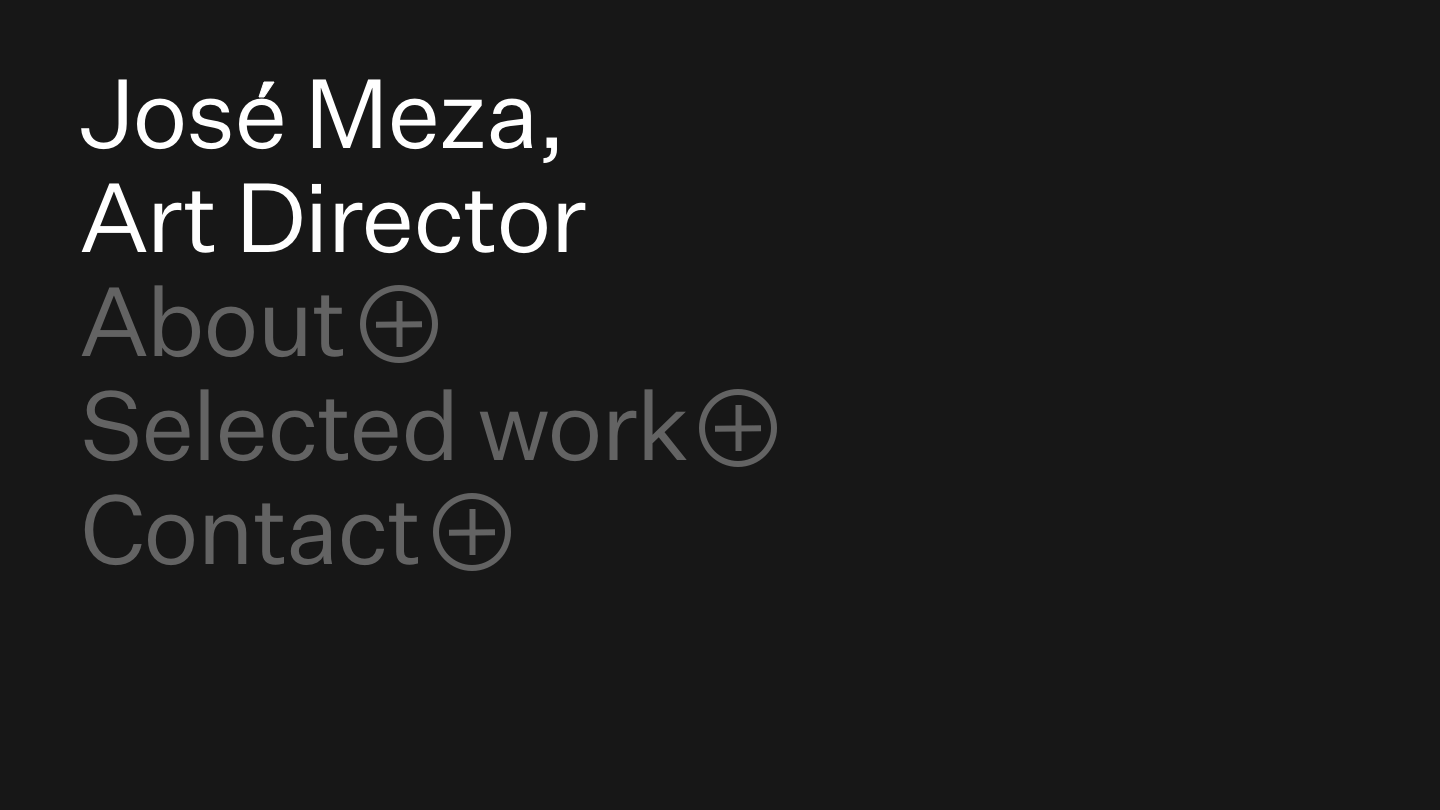
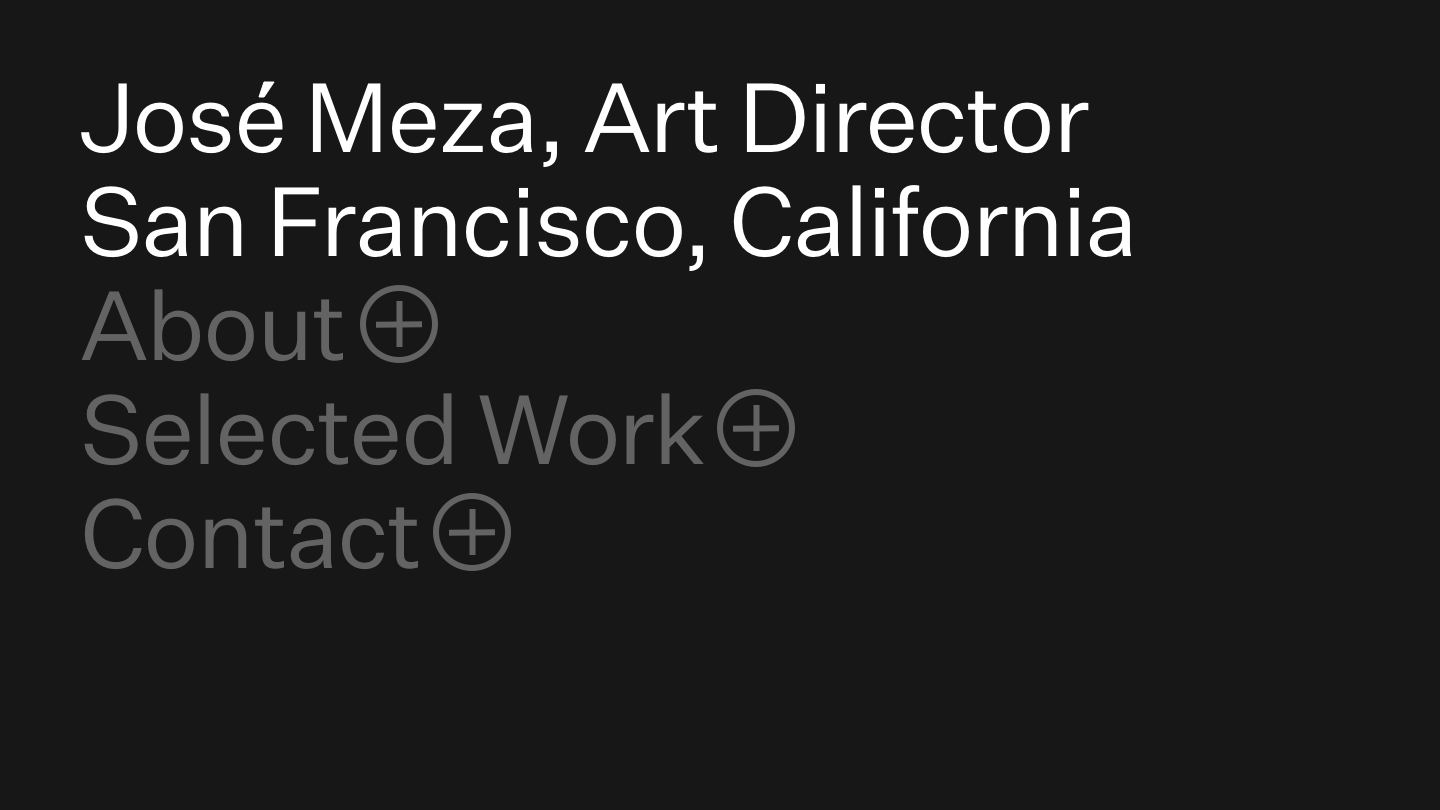
Local DB
Local DB replaces Google Sheets API

diff --git a/assets/main.css b/assets/main.css
@@ -1,1 +1,1 @@
-a,abbr,acronym,address,applet,article,aside,audio,b,big,blockquote,body,canvas,caption,center,cite,code,dd,del,details,dfn,div,dl,dt,em,embed,fieldset,figcaption,figure,footer,form,h1,h2,h3,h4,h5,h6,header,hgroup,html,i,iframe,img,ins,kbd,label,legend,li,mark,menu,nav,object,ol,output,p,pre,q,ruby,s,samp,section,small,span,strike,strong,sub,summary,sup,table,tbody,td,tfoot,th,thead,time,tr,tt,u,ul,var,video{margin:0;padding:0;border:0;font-size:100%;font:inherit;vertical-align:baseline}article,aside,details,figcaption,figure,footer,header,hgroup,menu,nav,section{display:block}body{line-height:1}ol,ul{list-style:none}blockquote,q{quotes:none}blockquote:after,blockquote:before,q:after,q:before{content:'';content:none}table{border-collapse:collapse;border-spacing:0}@font-face{font-family:untitled-sans;src:url(fonts/untitled-sans/untitled-sans-web-regular.woff2) format("woff2"),url(fonts/untitled-sans/untitled-sans-web-regular.woff) format("woff");font-weight:400;font-style:normal}body,html{overflow:auto;cursor:none}body{font:6.75vw/1.1em untitled-sans,helvetica,sans-serif;-webkit-font-smoothing:antialiased;overflow-x:hidden;background:#000;color:#fff;letter-spacing:-2px}html.unloaded{overflow:hidden}a{text-decoration:none;color:inherit;cursor:none}.clearfix{clear:both;display:block}.hideOnDesktop{display:none}::-moz-selection{background:#adadad}::selection{background:#adadad}.wrapper{margin-left:60px;margin-right:60px;margin-top:40px;padding-bottom:60px}body .fadeOnLoad{opacity:0;transition:opacity 0s}body.loaded .fadeOnLoad{opacity:1;transition:opacity 1s}#projects{margin-top:80px;margin-bottom:80px}.projectTitle{display:inline-block;height:100%;color:rgba(255,255,255,.3);transition:color .4s}.projectTitle:hover{color:#fff}span.imageCount{display:inline-block;opacity:0;pointer-events:none;transition:opacity .4s;margin-left:20px;font-size:50%;line-height:1em;letter-spacing:0}.projectTitle:hover span.imageCount{opacity:1;pointer-events:default}.projectPreview{visibility:visible;position:fixed;top:0;left:0;pointer-events:none;width:100vw;height:100vw;z-index:-1;opacity:0;transition:opacity .4s}.project.opaque .projectPreview{opacity:1}img.image{position:fixed;display:none;opacity:0;transition:opacity .4s;width:100%;height:auto;top:50%;left:0;transform:translateY(-50%)}img.image.showing{display:block;opacity:1}.expandablePanelTrigger{color:rgba(255,255,255,.3);transition:color .4s;display:inline-block}.expandablePanelButton{display:inline-block;height:5.25vw;width:5.25vw;opacity:.3;vertical-align:middle;margin-top:-1.4vw;margin-left:-.5vw;position:relative;transition:transform .4s,opacity .4s}.expandablePanelContentContainer{height:0;overflow:hidden;transition:height .4s}.expandablePanelContent{display:block;padding-top:40px;padding-bottom:60px;opacity:0;transition:opacity .4s}.smallerText{font:3vw/1.3em untitled-sans,helvetica,sans-serif;letter-spacing:-1px}.expandablePanelContent a{border-bottom:1px solid;padding-bottom:0}.expandablePanel.open .expandablePanelTrigger{color:#fff}.expandablePanel.open .expandablePanelButton{transform:rotate(45deg);opacity:1}.expandablePanel.open .expandablePanelContent{opacity:1}.expandablePanel.open .expandablePanelButtonLines span{background-color:#fff}.siteMeta{transition:color .4s}body.openPanel .siteMeta{color:rgba(255,255,255,.3)}#soundController{position:fixed;color:#fff;bottom:20px;right:20px;transition:color .4s,opacity 0,border .4s,margin-right .4s;opacity:0;padding-top:7px;padding-bottom:11px;padding-right:25px;padding-left:25px;border:3px solid #fff;border-radius:100px;text-align:right}body.loaded #soundController{opacity:1;transition:color .4s,opacity 1s,border .4s}#soundController.soundOff{color:rgba(255,255,255,.3);border:3px solid rgba(255,255,255,.3)}#aboutSectionContent{margin-right:60px}#cursor{height:47px;width:30px;position:fixed;top:-200px;left:-200px;pointer-events:none;margin-left:-10px;margin-top:-10px;transition:transform .2s;-webkit-filter:drop-shadow(0 0 5px rgba(0, 0, 0, .5));filter:drop-shadow(0 0 5px rgba(0, 0, 0, .5));transform:rotate(-22.5deg)}#cursor.south{transform:rotate(-180deg)}#cursor.northeast{transform:rotate(45deg)}#cursor.east{transform:rotate(90deg)}#cursor.west{transform:rotate(-90deg)}@media (max-width:1100px),(max-device-width:1100px){.wrapper{margin-left:40px;margin-right:40px;margin-top:30px;padding-bottom:30px}.expandablePanelContent{padding-top:30px;padding-bottom:40px}.smallerText{font:3.5vw/1.3em untitled-sans,helvetica,sans-serif}span.imageCount{margin-left:15px}}@media (max-width:950px),(max-device-width:950px){body,html{font:7.5vw/1.2em untitled-sans,helvetica,sans-serif}.expandablePanelContent{padding-top:20px}.smallerText{font:4.5vw/1.3em untitled-sans,helvetica,sans-serif}.expandablePanelButton{width:5.75vw;height:5.75vw;margin-top:-1.5vw}span.imageCount{margin-left:10px}#soundController{border:2px solid #fff}#soundController.soundOff{border:2px solid rgba(255,255,255,.3)}}@media (max-width:600px),(max-device-width:600px){.wrapper{margin-left:25px;margin-top:20px;margin-right:25px}body,html{font:12vw/1.2em untitled-sans,helvetica,sans-serif}.expandablePanelButton{margin-top:-2.2vw;width:9.25vw;height:9.25vw}#aboutSectionContent{margin-right:0}.smallerText{font:5.75vw/1.3em untitled-sans,helvetica,sans-serif}#soundController{padding-left:18px;padding-right:18px;padding-top:5px;padding-bottom:8px}}@media (hover:none){#cursor{display:none!important}}
+a,abbr,acronym,address,applet,article,aside,audio,b,big,blockquote,body,canvas,caption,center,cite,code,dd,del,details,dfn,div,dl,dt,em,embed,fieldset,figcaption,figure,footer,form,h1,h2,h3,h4,h5,h6,header,hgroup,html,i,iframe,img,ins,kbd,label,legend,li,mark,menu,nav,object,ol,output,p,pre,q,ruby,s,samp,section,small,span,strike,strong,sub,summary,sup,table,tbody,td,tfoot,th,thead,time,tr,tt,u,ul,var,video{margin:0;padding:0;border:0;font-size:100%;font:inherit;vertical-align:baseline}article,aside,details,figcaption,figure,footer,header,hgroup,menu,nav,section{display:block}body{line-height:1}ol,ul{list-style:none}blockquote,q{quotes:none}blockquote:after,blockquote:before,q:after,q:before{content:'';content:none}table{border-collapse:collapse;border-spacing:0}@font-face{font-family:untitled-sans;src:url(fonts/untitled-sans/untitled-sans-web-regular.woff2) format("woff2"),url(fonts/untitled-sans/untitled-sans-web-regular.woff) format("woff");font-weight:400;font-style:normal}body,html{overflow:auto;cursor:none}body{font:6.75vw/1.1em untitled-sans,helvetica,sans-serif;-webkit-font-smoothing:antialiased;overflow-x:hidden;background:#000;color:#fff;letter-spacing:-2px}html.unloaded{overflow:hidden}a{text-decoration:none;color:inherit;cursor:none}.clearfix{clear:both;display:block}.hideOnDesktop{display:none}::-moz-selection{background:#adadad}::selection{background:#adadad}.wrapper{margin-left:60px;margin-right:60px;margin-top:40px;padding-bottom:60px}body .fadeOnLoad{opacity:0;transition:opacity 0s}body.loaded .fadeOnLoad{opacity:1;transition:opacity 1s}#projects{margin-top:80px;margin-bottom:80px}.projectTitle{display:inline-block;height:100%;color:rgba(255,255,255,.3);transition:color .4s}.projectTitle:hover{color:#fff}span.imageCount{display:inline-block;opacity:0;pointer-events:none;transition:opacity .4s;margin-left:20px;font-size:50%;line-height:1em;letter-spacing:0}.projectTitle:hover span.imageCount{opacity:1;pointer-events:default}.projectPreview{visibility:visible;position:fixed;top:0;left:0;pointer-events:none;width:100vw;height:100vw;z-index:-1;opacity:0;transition:opacity .4s}.project.opaque .projectPreview{opacity:1}img.image{position:fixed;display:none;opacity:0;transition:opacity .4s;width:100%;height:auto;top:50%;left:0;transform:translateY(-50%)}img.image.showing{display:block;opacity:1}.expandablePanelTrigger{color:rgba(255,255,255,.3);transition:color .4s;display:inline-block}.expandablePanelButton{display:inline-block;height:5.25vw;width:5.25vw;opacity:.3;vertical-align:middle;margin-top:-1.4vw;margin-left:-.5vw;position:relative;transition:transform .4s,opacity .4s}.expandablePanelContentContainer{height:0;overflow:hidden;transition:height .4s}.expandablePanelContent{display:block;padding-top:40px;padding-bottom:60px;opacity:0;transition:opacity .4s}.smallerText{font:3vw/1.2em untitled-sans,helvetica,sans-serif;letter-spacing:-1px}.expandablePanelContent a{border-bottom:1px solid;padding-bottom:0}.expandablePanel.open .expandablePanelTrigger{color:#fff}.expandablePanel.open .expandablePanelButton{transform:rotate(45deg);opacity:1}.expandablePanel.open .expandablePanelContent{opacity:1}.expandablePanel.open .expandablePanelButtonLines span{background-color:#fff}.siteMeta{transition:color .4s}body.openPanel .siteMeta{color:rgba(255,255,255,.3)}#soundController{position:fixed;color:#fff;bottom:20px;right:20px;transition:color .4s,opacity 0,border .4s,margin-right .4s;opacity:0;padding-top:7px;padding-bottom:11px;padding-right:25px;padding-left:25px;border:3px solid #fff;border-radius:100px;text-align:right}body.loaded #soundController{opacity:1;transition:color .4s,opacity 1s,border .4s}#soundController.soundOff{color:rgba(255,255,255,.3);border:3px solid rgba(255,255,255,.3)}#aboutSectionContent{margin-right:60px}#cursor{height:47px;width:30px;position:fixed;top:-200px;left:-200px;pointer-events:none;margin-left:-10px;margin-top:-10px;transition:transform .2s;-webkit-filter:drop-shadow(0 0 5px rgba(0, 0, 0, .5));filter:drop-shadow(0 0 5px rgba(0, 0, 0, .5));transform:rotate(-22.5deg)}#cursor.south{transform:rotate(-180deg)}#cursor.northeast{transform:rotate(45deg)}#cursor.east{transform:rotate(90deg)}#cursor.west{transform:rotate(-90deg)}@media (max-width:1100px),(max-device-width:1100px){.wrapper{margin-left:40px;margin-right:40px;margin-top:30px;padding-bottom:30px}.expandablePanelContent{padding-top:30px;padding-bottom:40px}.smallerText{font:3.5vw/1.25em untitled-sans,helvetica,sans-serif}span.imageCount{margin-left:15px}}@media (max-width:950px),(max-device-width:950px){body,html{font:7.5vw/1.2em untitled-sans,helvetica,sans-serif}.expandablePanelContent{padding-top:20px}.smallerText{font:4.5vw/1.25em untitled-sans,helvetica,sans-serif}.expandablePanelButton{width:5.75vw;height:5.75vw;margin-top:-1.5vw}span.imageCount{margin-left:10px}#soundController{border:2px solid #fff}#soundController.soundOff{color:rgba(255,255,255,.3);border:2px solid rgba(255,255,255,.3)}}@media (max-width:600px),(max-device-width:600px){.wrapper{margin-left:25px;margin-top:20px;margin-right:25px}body,html{font:12vw/1.2em untitled-sans,helvetica,sans-serif}.expandablePanelButton{margin-top:-2.2vw;width:9.25vw;height:9.25vw}.expandablePanelButtonLines{width:5vw;height:5vw}.expandablePanelButtonLines span{height:.7vw;width:5vw}.expandablePanelButtonLines span:last-child{width:.7vw;height:5vw}#aboutSectionContent{margin-right:0}.smallerText{font:5.75vw/1.3em untitled-sans,helvetica,sans-serif}#soundController{padding-left:18px;padding-right:18px;padding-top:5px;padding-bottom:8px}}@media (hover:none){#cursor{display:none!important}}

diff --git a/assets/app.js b/assets/app.js
@@ -1,5 +1,5 @@
-var cursorLeft,cursorTop,projectPreviews,body=document.body,html=document.documentElement,wrapper=document.getElementsByClassName("wrapper")[0],windowWidth=Math.max(document.documentElement.clientWidth,window.innerWidth||0),windowHeight=Math.max(document.documentElement.clientHeight,window.innerHeight||0),projects=document.getElementById("projects"),projectList=document.getElementById("projectList"),soundController=document.getElementById("soundController"),cursor=document.getElementById("cursor");
+var projectDB,cursorLeft,cursorTop,projectPreviews,body=document.body,html=document.documentElement,wrapper=document.getElementsByClassName("wrapper")[0],windowWidth=Math.max(document.documentElement.clientWidth,window.innerWidth||0),windowHeight=Math.max(document.documentElement.clientHeight,window.innerHeight||0),projects=document.getElementById("projects"),projectList=document.getElementById("projectList"),soundController=document.getElementById("soundController"),cursor=document.getElementById("cursor");
 function preloadSounds(a){var o=document.createElement("audio");o.src="assets/sounds/"+a,o.load(),o.addEventListener("loadeddata",function(){})}for(var soundFileArray=["beer.mp3","dialing.mp3","low-power.mp3","mail.mp3","shutter.mp3","sms.mp3","sound-off.mp3","sound-on.mp3"],a=0;a<soundFileArray.length;a++)preloadSounds(soundFileArray[a]);
-console.log("Design by José Meza"),console.log("Development by Gabe Ferreira");
-var sheetUrl="https://spreadsheets.google.com/feeds/list/1JS0Ey7vEA1xPRZKu5uhAlHu1-EXRCJDa9hQa3xyEumc/1/public/values?alt=json";fetch(sheetUrl).then(function(e){return e.json()}).then(function(e){googleSheet=e.feed.entry;for(var t=0;t<googleSheet.length;t+=1){var s=document.createElement("div");s.className="project "+googleSheet[t].gsx$customclass.$t,s.id=googleSheet[t].gsx$customid.$t;var a=document.createElement("span");if(a.className="projectTitle",a.innerHTML=googleSheet[t].gsx$title.$t,s.appendChild(a),"Image"===googleSheet[t].gsx$mediatype.$t){var o=googleSheet[t].gsx$images.$t.split(","),n=document.createElement("div");if(n.className="imageContainer projectPreview",1<o.length){var i=document.createElement("span");i.className="imageCount",i.innerHTML="1 / "+o.length,a.appendChild(i),a.classList.add("multipleImages"),a.addEventListener("mouseenter",function(){cursor.classList.add("east")}),a.addEventListener("mouseleave",function(){cursor.classList.remove("east")}),a.addEventListener("click",function(){if(body.classList.contains("readyForClick")){var s,a=this.nextElementSibling.childNodes;a.forEach(function(e,t){e.classList.contains("showing")&&((s=t+1)>=a.length&&(s=0),e.classList.remove("showing"))}),a[s].classList.add("showing"),this.childNodes[1].innerHTML=s+1+" / "+a.length}})}for(var l=0;l<o.length;l++){var c=document.createElement("img");c.classList.add("image"),c.src="assets/img/projects/"+o[l],0===l&&c.classList.add("showing"),n.appendChild(c)}s.appendChild(n)}else if("Video"===googleSheet[t].gsx$mediatype.$t){var d=document.createElement("div");d.className="videoContainer projectPreview";var r=document.createElement("video");r.className="projectVideo",r.loop=!0,r.autoplay=!0,r.muted="muted",r.setAttribute("webkit-playsinline",""),r.setAttribute("playsinline","");var m=document.createElement("source");m.src="assets/img/projects/"+googleSheet[t].gsx$video.$t+".mp4",m.type="video/mp4";var g=document.createElement("source");g.src="assets/img/projects/"+googleSheet[t].gsx$video.$t+".webm",g.type="video/webm",r.appendChild(m),r.appendChild(g),r.load(),d.appendChild(r),s.appendChild(d)}projectList.appendChild(s)}}).then(function(){assignHoverStates(),projectPreviews=document.getElementsByClassName("projectPreview")}).catch(function(e){console.log(e)});
+console.log("Design and development by Gabe Ferreira"),console.log("contact@gabeferreira.com");
+for(var i=0;i<projectDB.length;i+=1){var newProject=document.createElement("div");newProject.className="project "+projectDB[i].customClass,newProject.id=projectDB[i].customID;var projectTitle=document.createElement("span");projectTitle.className="projectTitle",projectTitle.innerHTML=projectDB[i].title,newProject.appendChild(projectTitle);var imageArray=projectDB[i].images,imageContainer=document.createElement("div");if(imageContainer.className="imageContainer projectPreview",1<imageArray.length){var imageCount=document.createElement("span");imageCount.className="imageCount",imageCount.innerHTML="1 of "+imageArray.length,projectTitle.appendChild(imageCount),projectTitle.classList.add("multipleImages"),projectTitle.addEventListener("mouseenter",function(){cursor.classList.add("east")}),projectTitle.addEventListener("mouseleave",function(){cursor.classList.remove("east")}),projectTitle.addEventListener("click",function(){if(body.classList.contains("readyForClick")){var i,a=this.nextElementSibling.childNodes;a.forEach(function(e,t){e.classList.contains("showing")&&((i=t+1)>=a.length&&(i=0),e.classList.remove("showing"))}),a[i].classList.add("showing"),this.childNodes[1].innerHTML=i+1+" of "+a.length}})}for(var a=0;a<imageArray.length;a++){var image=document.createElement("img");image.classList.add("image"),image.src="assets/img/projects/"+projectDB[i].id+"/"+imageArray[a],0===a&&image.classList.add("showing"),imageContainer.appendChild(image)}newProject.appendChild(imageContainer),projectList.appendChild(newProject)}assignHoverStates(),projectPreviews=document.getElementsByClassName("projectPreview");
 function updateCursorPosition(e){scrollTop=void 0!==window.pageYOffset?window.pageYOffset:(document.documentElement||document.body.parentNode||document.body).scrollTop,cursorLeft=e.pageX+"px",cursorTop=e.pageY-scrollTop+"px"}function updateThumbnailPosition(){var e=!0,t=!1,r=void 0;try{for(var o,n=projectPreviews[Symbol.iterator]();!(e=(o=n.next()).done);e=!0){var a=o.value;a.style.top=cursorTop,a.style.left=cursorLeft}}catch(e){t=!0,r=e}finally{try{e||null==n.return||n.return()}finally{if(t)throw r}}}function assignHoverStates(){var e=document.getElementsByClassName("projectTitle"),t=!0,r=!1,o=void 0;try{for(var n,a=e[Symbol.iterator]();!(t=(n=a.next()).done);t=!0){var s=n.value;s.addEventListener("mouseenter",function(e){e.target.parentElement.classList.add("opaque"),setTimeout(function(){body.classList.add("readyForClick")},25)}),s.addEventListener("mouseout",function(e){e.target.parentElement.classList.remove("opaque"),body.classList.remove("readyForClick")})}}catch(e){r=!0,o=e}finally{try{t||null==a.return||a.return()}finally{if(r)throw o}}}setTimeout(function(){body.classList.add("loaded")},500),window.addEventListener("touchstart",function(){body.classList.add("touchDevice")}),window.addEventListener("resize",function(){windowWidth=Math.max(document.documentElement.clientWidth,window.innerWidth||0),windowHeight=Math.max(document.documentElement.clientHeight,window.innerHeight||0);var e=document.getElementsByClassName("expandablePanelContentContainer"),t=!0,r=!1,o=void 0;try{for(var n,a=e[Symbol.iterator]();!(t=(n=a.next()).done);t=!0){var s=n.value;s.classList.contains("openPanel")&&(s.style.height=s.firstElementChild.clientHeight+"px")}}catch(e){r=!0,o=e}finally{try{t||null==a.return||a.return()}finally{if(r)throw o}}}),document.addEventListener("mousemove",function(e){updateCursorPosition(e),cursor.style.left=cursorLeft,cursor.style.top=cursorTop});var expandableButtons=document.getElementsByClassName("expandablePanelTrigger"),_iteratorNormalCompletion4=!0,_didIteratorError4=!1,_iteratorError4=void 0;try{for(var _step4,_loop=function(){var f=_step4.value;f.addEventListener("mouseenter",function(){cursor.classList.add("south")}),f.addEventListener("mouseleave",function(){cursor.classList.remove("south")}),f.addEventListener("click",function(){if(f.parentElement.classList.contains("open")){f.parentElement.classList.remove("open"),body.classList.remove("openPanel"),f.nextElementSibling.style.height="0px",f.nextElementSibling.classList.remove("openPanel");var e=document.createElement("audio");e.src="assets/sounds/"+f.dataset.audioClose+".mp3",soundController.classList.contains("soundOn")&&e.play()}else{var t=document.getElementsByClassName("expandablePanel"),r=!0,o=!1,n=void 0;try{for(var a,s=t[Symbol.iterator]();!(r=(a=s.next()).done);r=!0){a.value.classList.remove("open")}}catch(e){o=!0,n=e}finally{try{r||null==s.return||s.return()}finally{if(o)throw n}}var i=document.getElementsByClassName("expandablePanelContentContainer"),l=!0,d=!1,c=void 0;try{for(var u,m=i[Symbol.iterator]();!(l=(u=m.next()).done);l=!0){var p=u.value;p.style.height="0px",p.classList.remove("openPanel")}}catch(e){d=!0,c=e}finally{try{l||null==m.return||m.return()}finally{if(d)throw c}}f.parentElement.classList.add("open"),body.classList.add("openPanel"),f.nextElementSibling.style.height=f.nextElementSibling.firstElementChild.clientHeight+"px",f.nextElementSibling.classList.add("openPanel");var v=document.createElement("audio");v.src="assets/sounds/"+f.dataset.audioOpen+".mp3",soundController.classList.contains("soundOn")&&v.play()}})},_iterator4=expandableButtons[Symbol.iterator]();!(_iteratorNormalCompletion4=(_step4=_iterator4.next()).done);_iteratorNormalCompletion4=!0)_loop()}catch(e){_didIteratorError4=!0,_iteratorError4=e}finally{try{_iteratorNormalCompletion4||null==_iterator4.return||_iterator4.return()}finally{if(_didIteratorError4)throw _iteratorError4}}var newPageLinks=document.getElementsByClassName("newPageLink"),_iteratorNormalCompletion5=!0,_didIteratorError5=!1,_iteratorError5=void 0;try{for(var _step5,_iterator5=newPageLinks[Symbol.iterator]();!(_iteratorNormalCompletion5=(_step5=_iterator5.next()).done);_iteratorNormalCompletion5=!0){var item=_step5.value;item.addEventListener("mouseenter",function(){cursor.classList.add("northeast")}),item.addEventListener("mouseleave",function(){cursor.classList.remove("northeast")})}}catch(e){_didIteratorError5=!0,_iteratorError5=e}finally{try{_iteratorNormalCompletion5||null==_iterator5.return||_iterator5.return()}finally{if(_didIteratorError5)throw _iteratorError5}}soundController.addEventListener("click",function(){var e;this.classList.contains("soundOn")?(this.classList.remove("soundOn"),this.classList.add("soundOff"),(e=document.createElement("audio")).src="assets/sounds/sound-off.mp3",e.load(),e.play(),cursor.className="east"):(this.classList.remove("soundOff"),this.classList.add("soundOn"),(e=document.createElement("audio")).src="assets/sounds/sound-on.mp3",e.load(),e.play(),cursor.className="west")}),soundController.addEventListener("mouseenter",function(){this.classList.contains("soundOn")?cursor.classList.add("west"):cursor.classList.add("east")}),soundController.addEventListener("mouseleave",function(){cursor.classList.remove("east"),cursor.classList.remove("west")});

diff --git a/index.html b/index.html
@@ -1,6 +1,7 @@
 <!--
-Design by José Meza
-Development by Gabe Ferreira
+Design and development by Gabe Ferreira
+www.gabeferreira.com
+contact@gabeferreira.com
 -->
 <!DOCTYPE html PUBLIC "-//W3C//DTD XHTML 1.0 Transitional//EN" "http://www.w3.org/TR/xhtml1/DTD/xhtml1-transitional.dtd">
 <html xmlns="http://www.w3.org/1999/xhtml">
@@ -13,7 +14,7 @@ Development by Gabe Ferreira
 	<meta name="description" content="José Meza is an art director working in visual and brand design.">
 	<link href="assets/main.css" rel="stylesheet" type="text/css" />
 	<link rel="shortcut icon" href="assets/img/favicon.ico">
-	<link rel="canonical" href="https://josemeza.info" />
+	<link rel="canonical" href="http://josemeza.info" />
 
 	<!--Favicons-->
 	<link rel="apple-touch-icon" sizes="180x180" href="assets/favicon/apple-icon-180x180.png">
@@ -26,17 +27,17 @@ Development by Gabe Ferreira
 	<meta name="theme-color" content="#ffffff">
 
 	<!--Facebook Open Graph-->
-	<meta property="og:url" content="https://josemeza.com" />
+	<meta property="og:url" content="http://josemeza.com" />
 	<meta property="og:type" content="website" />
 	<meta property="og:title" content="José Meza" />
-	<meta property="og:image" content="https://josemeza.info/assets/img/thumbnail.png" />
+	<meta property="og:image" content="http://josemeza.info/assets/img/thumbnail.png" />
 	<meta property="og:description" content="José Meza is an art director working in visual and brand design." />
 
 	<!--Twitter Card-->
 	<meta name="twitter:card" content="summary_large_image" />
 	<meta name="twitter:title" content="José Meza" />
 	<meta name="twitter:description" content="José Meza is an art director working in visual and brand design." />
-	<meta name="twitter:image" content="https://josemeza.info/assets/img/thumbnail.png" />
+	<meta name="twitter:image" content="http://josemeza.info/assets/img/thumbnail.png" />
 
 	<!--Google Analytics-->
 	<script async src="https://www.googletagmanager.com/gtag/js?id=UA-163826468-1"></script>
@@ -55,7 +56,7 @@ Development by Gabe Ferreira
 
 		<header id="mainHeader" class="fadeOnLoad">
 			<div class="siteMeta">
-				<span class="siteTitle">José Meza,</span><br>
+				<span class="siteTitle">José Meza</span><br>
 				<span class="siteLocation">Art&nbsp;Director</span><br>
 			</div><!--siteMeta-->
 		</header><!--header-->
@@ -69,7 +70,7 @@ Development by Gabe Ferreira
 			</div><!--expandablePanelTrigger-->
 			<div class="expandablePanelContentContainer">
 				<div class="expandablePanelContent smallerText" id="aboutSectionContent">
-					José Meza is an art director based in San Francisco currently working on visual and brand design with <a href="https://about.google/" target="_blank" class="newPageLink">Google Brand Studio</a>. Previously, he worked at <a href="https://ideo.com" target="_blank" class="newPageLink">IDEO</a>, helped launch <a href="https://figma.com" target="_blank" class="newPageLink">Figma</a>, and interned at <a href="https://pentagram.com" target="_blank" class="newPageLink">Pentagram</a> and <a href="https://2x4.org" target="_blank" class="newPageLink">2x4</a>. He studied architecture at <a href="https://www.architecture.yale.edu/" target="_blank" class="newPageLink">Yale</a> and <a href="https://soa.princeton.edu/" target="_blank" class="newPageLink">Princeton</a> and makes architectural images and objects and shares them on <a href="https://www.instagram.com/parts_and_supply/" target="_blank" class="newPageLink">Instagram</a>. Thanks for stopping by.
+					José Meza is an art director based in San Francisco currently working on visual and brand design with <a href="http://google.com" target="_blank" class="newPageLink">Google Brand Studio</a>. Previously, he worked at <a href="http://ideo.com" target="_blank" class="newPageLink">IDEO</a>, helped launch <a href="http://figma.com" target="_blank" class="newPageLink">Figma</a>, and interned at <a href="http://pentagram.com" target="_blank" class="newPageLink">Pentagram</a> and <a href="http://2x4.org" target="_blank" class="newPageLink">2x4</a>. He studied architecture at <a href="https://www.architecture.yale.edu/" target="_blank" class="newPageLink">Yale</a> and <a href="https://soa.princeton.edu/" target="_blank" class="newPageLink">Princeton</a> and is currently a guest critic and lecturer at <a href="http://cca.edu" target="_blank" class="newPageLink">CCA</a>. He makes architectural images and objects and shares them on <a href="http://instagram.com/lcl.business" target="_blank" class="newPageLink">Instagram</a>. Thanks for stopping by.
 				</div><!--expandablePanelContent-->
 			</div><!--expandablePanelContentContainer-->
 		</div><!--expandablePanel-->
@@ -97,9 +98,8 @@ Development by Gabe Ferreira
 			</div><!--expandablePanelTrigger-->
 			<div class="expandablePanelContentContainer">
 				<div class="expandablePanelContent smallerText">
-					<a href="mailto:hello@josemeza.info">Email</a><br>
-					<a href="https://www.linkedin.com/in/josemeza" target="_blank" class="newPageLink">LinkedIn</a><br>
-					<a href="https://www.instagram.com/parts_and_supply/" target="_blank" class="newPageLink">Instagram</a>
+					jose.meza.ramos@gmail.com<br>
+					+1 650-798-9253
 				</div><!--expandablePanelContent-->
 			</div><!--expandablePanelContentContainer-->
 		</div><!--expandablePanel-->		
@@ -114,6 +114,7 @@ Development by Gabe Ferreira
 		<img src="assets/img/ui/cursor.svg">
 	</div><!--cursor-->
 
+	<script async src="assets/db.js"></script>
 	<script async src="assets/app.js"></script>
 
 </body>

diff --git a/assets/db.js b/assets/db.js
@@ -1,0 +1,93 @@
+projectDB = [
+	{
+		title:'Google',
+		id:'Google',
+		images:[
+			'Film.jpg',
+			'Interactive.jpg',
+			'Opener.jpg',
+			'Outdoor.jpg',
+			'Print.jpg',
+			'Social.jpg'
+		],
+		customClass:'',
+		customID:'',
+	},
+	{
+		title:'Gayletter',
+		id:'Gayletter',
+		images:[
+			'Gayletter.jpg',
+			'Gayletter 1.jpg',
+			'Gayletter 2.jpg',
+			'Gayletter 3.jpg',
+		],
+		customClass:'',
+		customID:'',
+	},
+	{
+		title:'IDEO',
+		id:'IDEO',
+		images:[
+			'1.jpg',
+			'2.jpg',
+			'4.jpg',
+		],
+		customClass:'',
+		customID:'',
+	},
+	{
+		title:'Figma',
+		id:'Figma',
+		images:[
+			'2.png',
+			'3.png',
+			'4.png',
+		],
+		customClass:'',
+		customID:'',
+	},
+	{
+		title:'Pentagram',
+		id:'Pentagram',
+		images:[
+			'2.jpg',
+			'3.jpg',
+			'5.jpg',
+		],
+		customClass:'',
+		customID:'',
+	},
+	{
+		title:'2×4',
+		id:'2x4',
+		images:[
+			'2.jpg',
+			'3.jpg',
+		],
+		customClass:'',
+		customID:'',
+	},
+	{
+		title:'WIP',
+		id:'WIP',
+		images:[
+			'1.jpg',
+			'3.jpg',
+			'4.jpg',
+		],
+		customClass:'',
+		customID:'',
+	},
+	{
+		title:'Princeton',
+		id:'Princeton',
+		images:[
+			'3.jpg',
+			'4.jpg',
+			'5.jpg',
+		],
+		customClass:'',
+		customID:'',
+	},
+]
